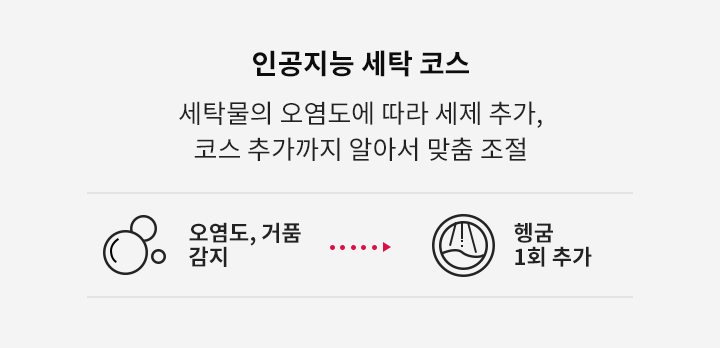
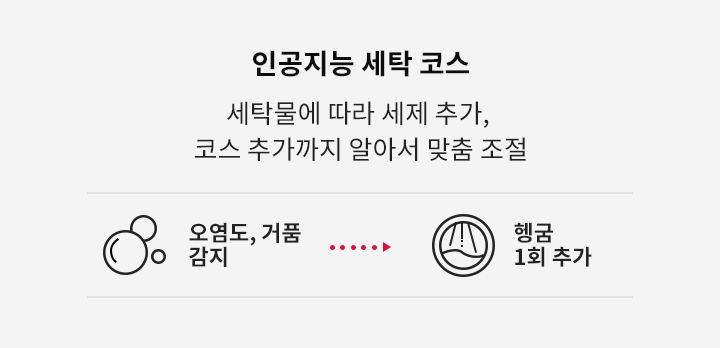
sdfglkdfklgjdflkgjdlfk

Changed region(s): [[0.2444, 0.2874, 0.7639, 0.3736]]

diff --git a/images/washing-machines/md_new/usp2/md_new_local.html b/images/washing-machines/md_new/usp2/md_new_local.html
@@ -310,7 +310,7 @@
 										<h2>옷감을 이해하는 <br class="mo-only">정교한 맞춤 세탁</h2>
 									</div>
 									<p class="banner-txt">
-										인공지능 DD모터와 정밀 센서가<br>옷감의 무게와 소재, 오염 정도를 감지해<br>옷 손상을 줄여주고, 손빨래 동작을<br>섬세하게 구현하는 6모션으로<br>세탁은 더욱 정교해집니다.
+										인공지능 DD모터와 정밀 센서가<br>옷감의 무게와 소재, 오염도를 감지해<br>알아서 시간, 온도, 세탁, 헹굼을 설정하고<br>손빨래 동작을 구현한 6모션이 세탁물 종류에<br>맞춰 정교한 세탁을 진행합니다. 
 									</p>
 								</div>
 								<!-- //inner -->
@@ -365,7 +365,7 @@
 								<img src="./img_scene02_2_pc.jpg" alt="" class="pc-only">
 								<img src="./img_scene02_2_mo.jpg" alt="" class="mo-only">
 								<p class="hidden">
-									인공지능 세탁 코스 : 세탁물의 오염도에 따라 세제 추가, 코스 추가까지 알아서 맞춤 조절
+									인공지능 세탁 코스 : 세탁물에 따라 세제 추가, 코스 추가까지 알아서 맞춤 조절
 								</p>
                             </div>      
 						</div>
@@ -420,7 +420,7 @@
 								<h2 class="fc-black">간편하게 돌리고 <br class="mo-only">한눈에 보는 쉬운 세탁</h2>
 							</div>
 							<div class="text font-regular fc-black">
-								수많은 버튼을 하나의 화면에 모두 담았습니다. <br class="mo-only">덕분에 조작은 쉽고 디자인은 훨씬 간결해졌죠.<br>다이얼을 돌려 원하는 코스를 손쉽게 설정하고 <br class="mo-only">세탁 시간, 알림도 한 눈에 확인할 수 있습니다.
+								수많은 버튼을 하나의 화면에 모두 담았습니다. <br class="mo-only">덕분에 조작은 쉽고 디자인은 훨씬 간결해졌죠.<br>다이얼을 돌려 원하는 코스를 손쉽게 설정하고 <br class="mo-only">세탁 시간, 알림도 한눈에 확인할 수 있습니다.
 							</div>
 						</div>
 					</div>
@@ -656,7 +656,7 @@
 								<h2 class="fc-black">하나로 연결되는 <br>세탁, 건조, 스타일링</h2>
 							</div>
 							<div class="text font-regular fc-black">		
-								LG 트롬 건조기와 LG 스타일러에 진행 중인 <br class="mo-only">세탁 정보가 그대로 스마트하게 이어집니다.<br>덕분에 별다른 설정 없이도 세탁 코스에 맞는 <br class="mo-only">건조 코스, 의류 케어를 바로 진행할 수 있죠.
+								LG 트롬 건조기와 LG 스타일러를 함께 사용하면 <br class="mo-only">진행 중인 세탁 정보가 그대로 공유됩니다.<br>덕분에 따로 설정하지 않아도 세탁 코스에 맞게 <br class="mo-only">건조와 의류 케어 모드를 곧바로 진행할 수 있죠.
 							</div>
 						</div>
 					</div>
@@ -1293,7 +1293,7 @@
 				<div class="unit-box">
 					<ul class="bullet-list">
 						<li class="b-txt">
-							* LG ThinQ 앱은 Android OS(7.0 이상) Play스토어, iOS(11.0 이상) App Store에서 별도로 설치가 필요하며, 휴대전화의 기종/유형에 따라 차이가 발생할 수 있습니다. (iOS 운영체제에서는 NFC 기능을 지원하지 않음).<br>또한 초기 제품과 연결시 동일한 Wi-Fi 환경안에 있어야하며, 이 후 제품은 항상 등록된 Wi-Fi 환경 안에서 동작되어야 합니다.
+							* LG ThinQ 앱은 Android OS(7.0 이상) Play Store, iOS(11.0 이상) App Store에서 별도 설치가 필요하며, 휴대전화의 기종 및 유형에 따라 차이가 발생할  수 있습니다. (iOS 운영체제에서는 NFC 기능을 지원하지 않음) <br>* 초기 제품과 연결 시 동일한 Wi-Fi 환경 안에 있어야 하며, 이후 제품은 항상 등록된 Wi-Fi 환경 안에서 동작되어야 합니다.
 						</li>
 					</ul>
 				</div>
